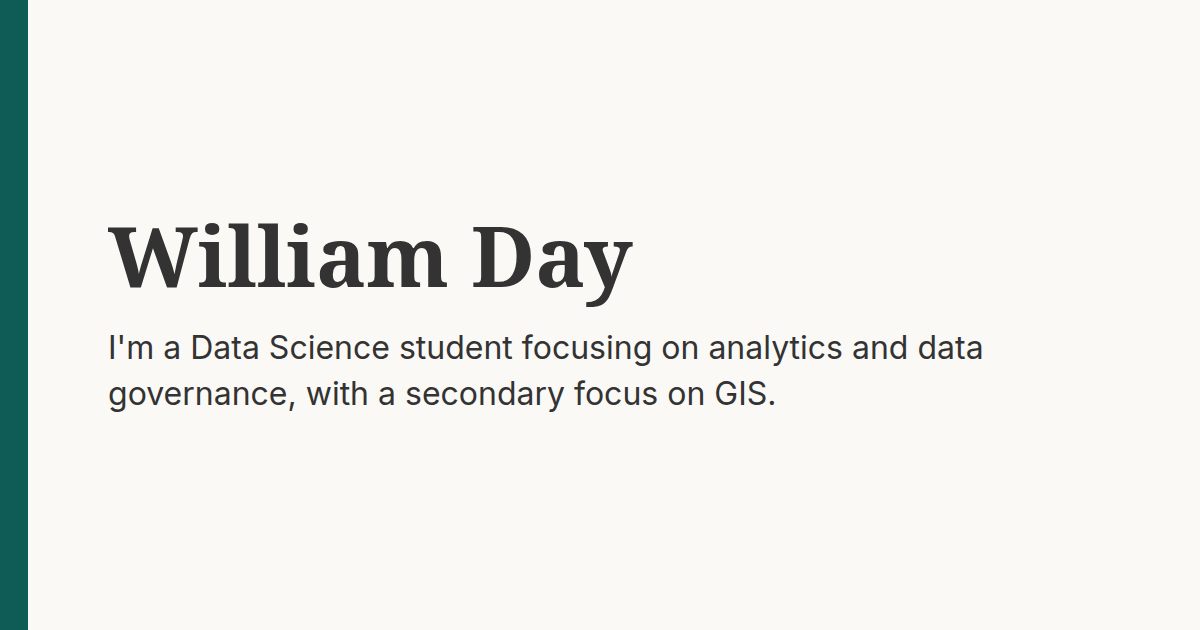
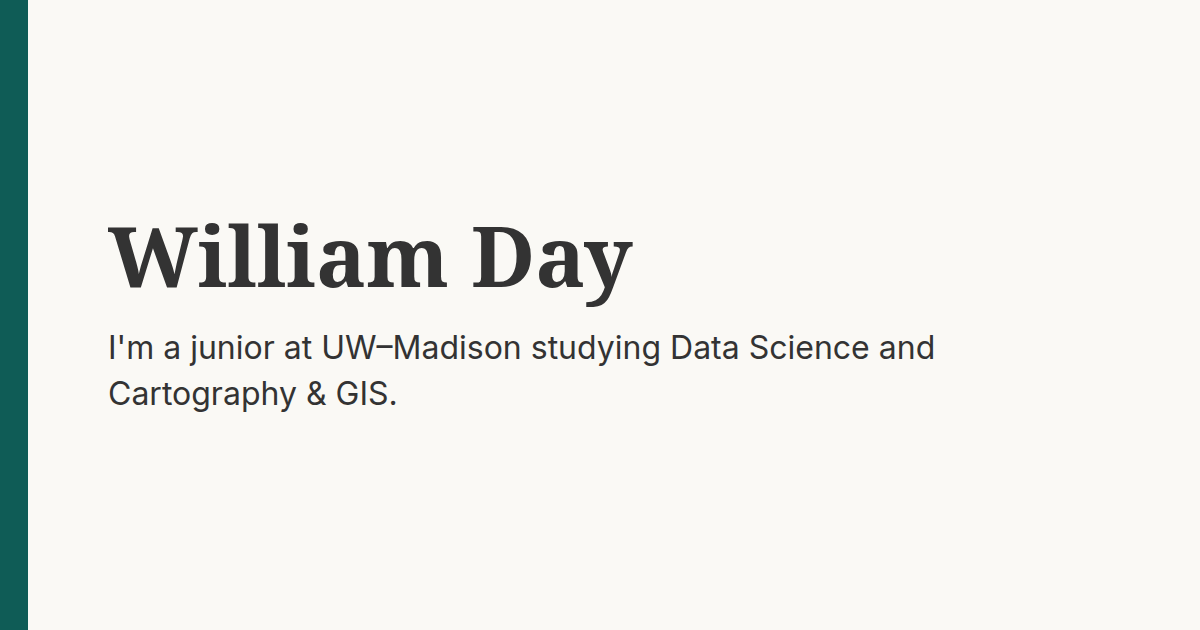
Tighten the portfolio copy and group skills the way the resume does.
The hero now uses his letter sentences instead of data warehousing and data engineering. Project cards are shorter, skill chips sit under his three resume headings, and the accent comparison still swaps on one CSS line.

Changed region(s): [[0.0925, 0.5127, 0.8325, 0.6635]]

diff --git a/src/styles/global.css b/src/styles/global.css
@@ -219,6 +219,7 @@ nav a {
   justify-content: center;
   align-items: center;
   overflow: hidden;
+  border: 3px solid color-mix(in srgb, var(--color-primary) 40%, white);
   font-family: var(--font-secondary);
   font-size: 4.5rem;
   font-weight: 700;
@@ -262,7 +263,21 @@ section {
 }
 
 .skills {
+  margin-top: var(--spacing-lg);
+}
+
+.skill-group {
   margin-top: var(--spacing-md);
+}
+
+.skill-group h4 {
+  font-family: var(--font-primary);
+  font-size: 0.8rem;
+  font-weight: 600;
+  letter-spacing: 0.06em;
+  text-transform: uppercase;
+  color: var(--color-text-light);
+  margin-bottom: var(--spacing-xs);
 }
 
 .skills ul {
@@ -288,6 +303,8 @@ section {
 }
 
 .project-card {
+  display: flex;
+  flex-direction: column;
   background-color: var(--color-secondary);
   border-radius: var(--border-radius-md);
   overflow: hidden;
@@ -316,18 +333,38 @@ section {
 .image-placeholder {
   width: 100%;
   height: 100%;
-  background:
-    linear-gradient(165deg, var(--color-secondary) 0%, color-mix(in srgb, var(--color-primary) 28%, white) 100%);
+  background-color: color-mix(in srgb, var(--color-primary) 10%, var(--color-secondary));
+  background-image: repeating-linear-gradient(
+    -18deg,
+    transparent,
+    transparent 11px,
+    color-mix(in srgb, var(--color-primary) 22%, transparent) 11px,
+    color-mix(in srgb, var(--color-primary) 22%, transparent) 12px
+  );
 }
 
 .project-info {
+  display: flex;
+  flex-direction: column;
+  flex: 1;
   padding: var(--spacing-md);
+}
+
+.project-info h3 {
+  font-size: 1.35rem;
+}
+
+.project-info p {
+  font-size: 0.98rem;
+  line-height: 1.55;
 }
 
 .project-links {
   display: flex;
+  flex-wrap: wrap;
   gap: var(--spacing-sm);
-  margin-top: var(--spacing-sm);
+  margin-top: auto;
+  padding-top: var(--spacing-sm);
 }
 
 .project-link {
